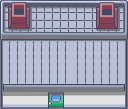
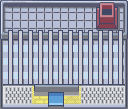
continue on NTUT

diff --git a/src/Map.cpp b/src/Map.cpp
@@ -47,6 +47,9 @@ void Map::InitTileRegistry() {
     m_TileRegistry[GameConfig::TILE_GRAVEL]        = { ResourceManager::GetImageStore().Get(TILE_DIR + "/Gravel.png"),        0.1f, 0.0f, true  };
     m_TileRegistry[GameConfig::TILE_ROAD]          = { ResourceManager::GetImageStore().Get(TILE_DIR + "/Road.png"),          0.1f, 0.0f, true  };
     m_TileRegistry[GameConfig::TILE_CALM_WATER]    = { ResourceManager::GetImageStore().Get(TILE_DIR + "/CalmWater.png"),     0.1f, 0.0f, false };
+    m_TileRegistry[GameConfig::TILE_RED_BRICK]    = { ResourceManager::GetImageStore().Get(TILE_DIR + "/RedBrick.png"),     0.1f, 0.0f, true };
+    m_TileRegistry[GameConfig::TILE_GREY_BRICK]    = { ResourceManager::GetImageStore().Get(TILE_DIR + "/GreyBrick.png"),     0.1f, 0.0f, true };
+
 }
 
 void Map::InitNPCRegistry() {
@@ -86,6 +89,8 @@ void Map::InitPropRegistry() {
     m_PropRegistry[GameConfig::PROP_NTUT_BUILDING5]      = { {PROP_DIR + "/Building5.png"},          0.8f, true,  false, 0.0f,  0.0f  };
     m_PropRegistry[GameConfig::PROP_NTUT_TECH_BUILDING]      = { {PROP_DIR + "/TechBuilding.png"},          0.8f, true,  false, 0.0f,  -144.0f};
     m_PropRegistry[GameConfig::PROP_NTUT_TECH_BUILDING2]      = { {PROP_DIR + "/TechBuilding12.png"},          0.8f, true,  false, 0.0f,  0.0f};
+    m_PropRegistry[GameConfig::PROP_NTUT_BUILDING6]      = { {PROP_DIR + "/Building6.png"},          0.8f, true,  false, 0.0f,  0.0f  };
+    m_PropRegistry[GameConfig::PROP_NTUT_CAFETERIA_BUILDING]      = { {PROP_DIR + "/CafeteriaBuilding.png"},          0.8f, true,  false, 0.0f,  0.0f  };
 
 
 
@@ -116,6 +121,7 @@ void Map::InitPropRegistry() {
 
     // Nature props
     m_PropRegistry[GameConfig::PROP_TREE]       = { {PROP_DIR + "/Tree.png"},      0.8f, true, true,  20.0f, -16.0f };
+    m_PropRegistry[GameConfig::PROP_PALM_TREE]       = { {PROP_DIR + "/PalmTree.png"},      0.8f, true, true,  20.0f, -16.0f };
     m_PropRegistry[GameConfig::PROP_SMALL_TREE] = { {PROP_DIR + "/SmallTree.png"}, 0.8f, true, false, 0.0f,  0.0f   };
     m_PropRegistry[GameConfig::PROP_LAMP_POST]  = { {PROP_DIR + "/LampPost.png"},  0.8f, true, false, 0.0f,  0.0f   };
 

diff --git a/include/GameConfig.hpp b/include/GameConfig.hpp
@@ -30,6 +30,8 @@ namespace GameConfig {
     constexpr int TILE_EXIT         = 99;
     constexpr int TILE_INSIDE_CHURCH    = 67;
     constexpr int TILE_CALM_WATER       = 14;
+    constexpr int TILE_RED_BRICK      = 15;
+    constexpr int TILE_GREY_BRICK      = 16;
 
     // Prop IDs 
     constexpr int PROP_POKECENTER       = 3;
@@ -70,6 +72,7 @@ namespace GameConfig {
     constexpr int PROP_TRUCK2           = 74;
     constexpr int PROP_CAR              = 75;
     constexpr int PROP_STAIRS_NORTH     = 76;
+    constexpr int PROP_PALM_TREE     = 77;
     constexpr int PROP_NTUT_BUILDING1  = 550;
     constexpr int PROP_NTUT_MOSS_BUILDING  = 551;
     constexpr int PROP_NTUT_BUILDING2  = 552;
@@ -80,6 +83,9 @@ namespace GameConfig {
     constexpr int PROP_NTUT_BALL_STATUE  = 557;
     constexpr int PROP_NTUT_BUILDING5  = 558;
     constexpr int PROP_NTUT_TECH_BUILDING2  = 559;
+    constexpr int PROP_NTUT_BUILDING6  = 560;
+    constexpr int PROP_NTUT_CAFETERIA_BUILDING  = 561;
+
 
 
     
